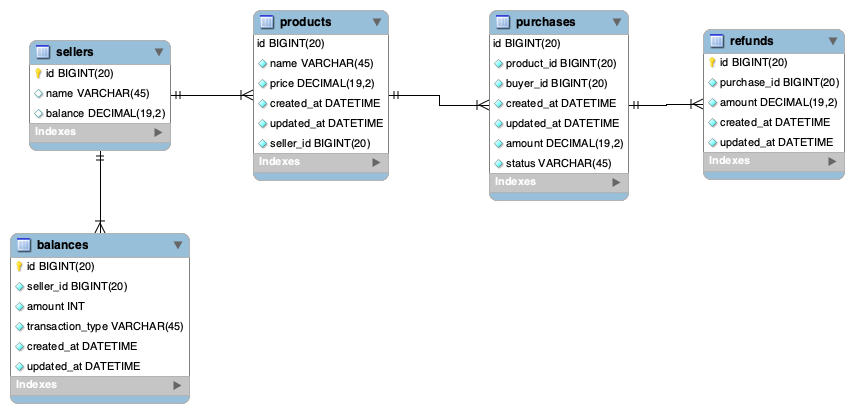
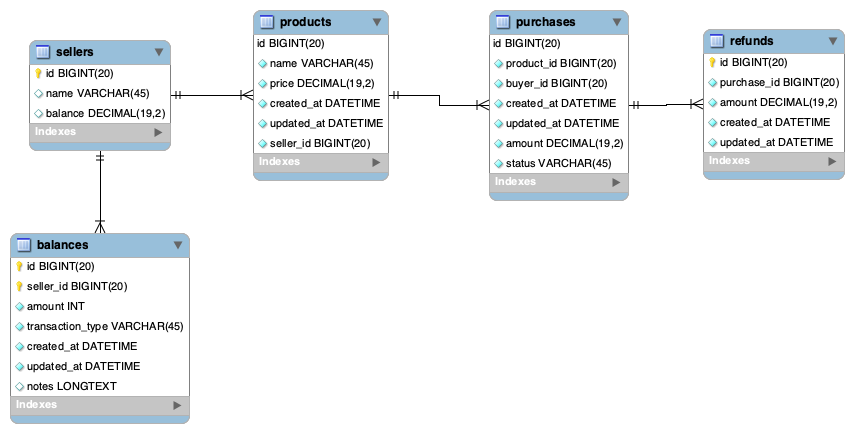
updated response to data model

Changed region(s): [[0.5176, 0.0291, 1.0, 0.4939], [0.0304, 0.0291, 0.5176, 0.4358], [0.0, 0.523, 0.2436, 0.9879]]

diff --git a/3/readme.md b/3/readme.md
@@ -1,4 +1,34 @@
 # Challenge 3
 
-Our current simplified data model looks like this:
+Here is the overview of our models
 ![Current Schema](schema.png)
+
+Aside from sellers, products, purchases, there are additional 2 tables: balances & refunds.
+
+The requirements of the challenges are:
+
+1. Sellers can refund purchases
+2. Gumroad can have the flexibility to pay sellers with the terms.
+
+Now, the sellers, products, and purchases tables are what we have expected for Gumroad's current system. I want to dive deeper into balances and refunds tables.
+
+> Balances table will be responsible for tracking records of what's happening with the seller's balance.
+
+#### If a purchase is refunded
+
+- Insert new "refund" `transaction_type` with its amount to `balances` table.
+- Subtract `balance` column in `sellers` table
+- Insert new record to `refunds` table belong to the `purchase_id`
+
+> This way, sellers can have their "balance account history".
+
+Then, how about changing sellers payout schedule?
+
+#### If a seller is paid out
+
+- Insert new "payout" `transaction_type` with seller's current balance to `balances` table
+- Subtract `balance` column in `sellers` table
+
+As you can see in the picture earlier, there are `created_at` column which can be our guidance when is the last time sellers got paid.
+
+> Whenever, we want to change payout schedule, simply refers to this `balances` table.
